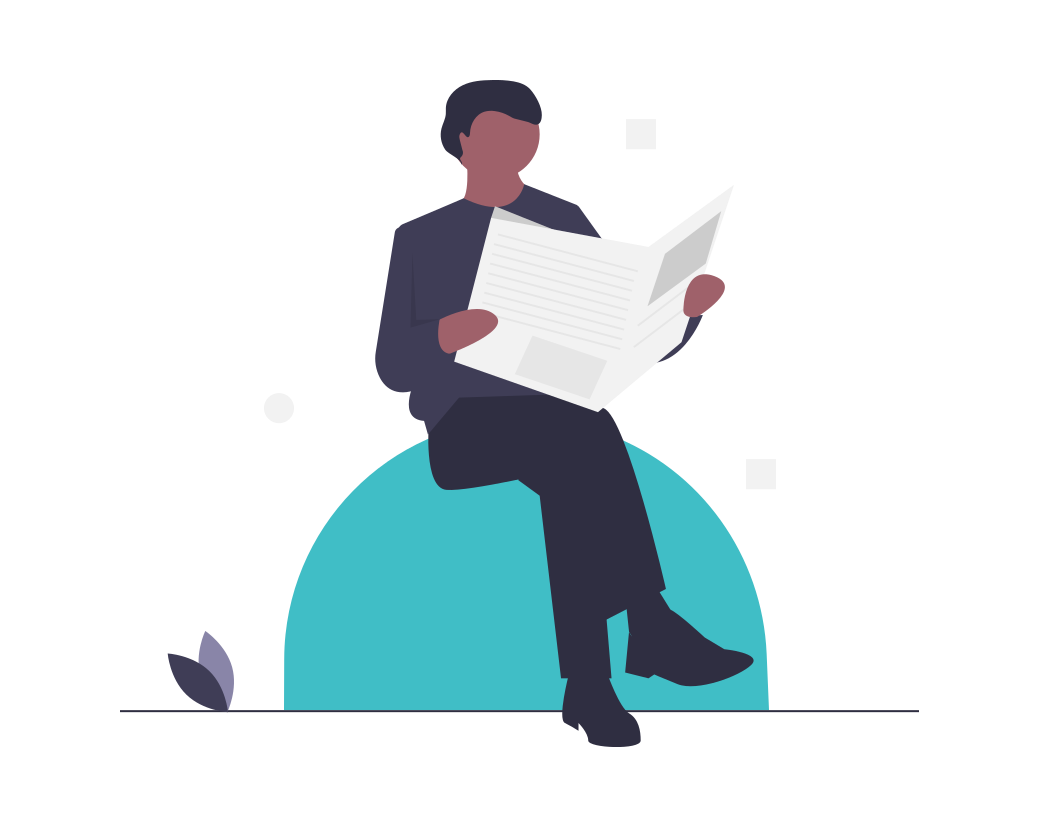
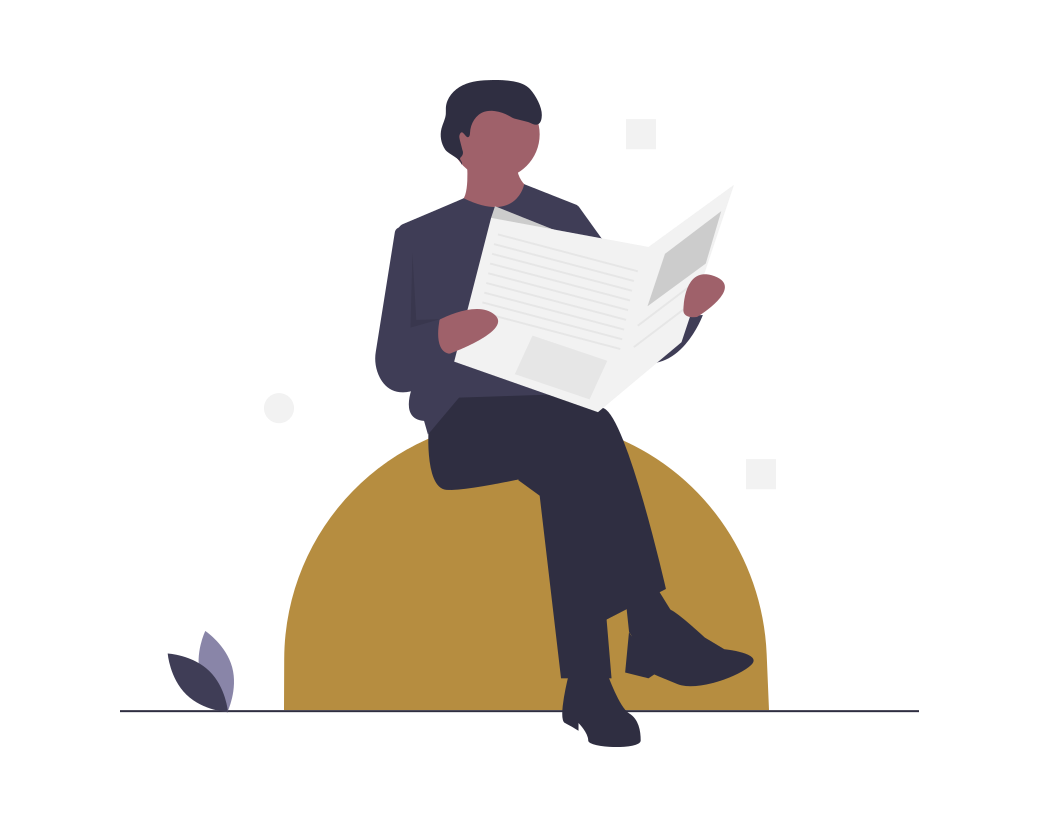
[CHANGE] Couleur et image mailing

Changed region(s): [[0.2464, 0.5139, 0.5544, 0.8767], [0.5852, 0.5139, 0.7392, 0.8767]]

diff --git a/frontend/src/components/Forms/EditReportForm.vue b/frontend/src/components/Forms/EditReportForm.vue
@@ -18,7 +18,7 @@
               v-model="responses[question.slug]"
               :show-rating="false"
               inactive-color="#e2e8f0"
-              active-color="#319795"
+              active-color="#c19034"
               :padding="10"
               :star-size="30">
           </star-rating>

diff --git a/resources/views/mails/report.blade.php b/resources/views/mails/report.blade.php
@@ -93,49 +93,55 @@
         <tr>
           <td style="line-height:0px;font-size:0px;mso-line-height-rule:exactly;">
       <![endif]-->
-    <div style="background:#319795;background-color:#319795;margin:0px auto;max-width:600px;">
-      <table align="center" border="0" cellpadding="0" cellspacing="0" role="presentation" style="background:#319795;background-color:#319795;width:100%;">
-        <tbody>
+      <div style="background:#ffffff;background-color:#ffffff;margin:0px auto;max-width:600px;">
+        <table align="center" border="0" cellpadding="0" cellspacing="0" role="presentation" style="background:#ffffff;background-color:#ffffff;width:100%;">
+          <tbody>
+            <tr>
+              <td style="direction:ltr;font-size:0px;padding:10px 0;text-align:center;">
+                <!--[if mso | IE]>
+                    <table role="presentation" border="0" cellpadding="0" cellspacing="0">
+
           <tr>
-            <td style="direction:ltr;font-size:0px;padding:10px 0;text-align:center;">
-              <!--[if mso | IE]>
-                  <table role="presentation" border="0" cellpadding="0" cellspacing="0">
 
-        <tr>
-
-            <td
-               class="" style="vertical-align:top;width:600px;"
-            >
-          <![endif]-->
-              <div class="mj-column-per-100 mj-outlook-group-fix" style="font-size:0px;text-align:left;direction:ltr;display:inline-block;vertical-align:top;width:100%;">
-                <table border="0" cellpadding="0" cellspacing="0" role="presentation" width="100%">
-                  <tbody>
-                    <tr>
-                      <td style="vertical-align:top;padding:0px;">
-                        <table border="0" cellpadding="0" cellspacing="0" role="presentation" style="" width="100%">
-                          <tr>
-                            <td align="center" style="font-size:0px;padding:18px 0px;word-break:break-word;">
-                              <div style="font-family:Raleway, Helvetica, Arial, sans-serif;font-size:25px;font-weight:bold;line-height:1;text-align:center;color:#ffffff;">APC Report</div>
-                            </td>
-                          </tr>
-                        </table>
-                      </td>
-                    </tr>
-                  </tbody>
-                </table>
-              </div>
-              <!--[if mso | IE]>
-            </td>
-
-        </tr>
-
+              <td
+                 class="" style="vertical-align:top;width:600px;"
+              >
+            <![endif]-->
+                <div class="mj-column-per-100 mj-outlook-group-fix" style="font-size:0px;text-align:left;direction:ltr;display:inline-block;vertical-align:top;width:100%;">
+                  <table border="0" cellpadding="0" cellspacing="0" role="presentation" width="100%">
+                    <tbody>
+                      <tr>
+                        <td style="vertical-align:top;padding:0px;">
+                          <table border="0" cellpadding="0" cellspacing="0" role="presentation" style="" width="100%">
+                            <tr>
+                              <td align="center" style="font-size:0px;padding:10px 25px;word-break:break-word;">
+                                <table border="0" cellpadding="0" cellspacing="0" role="presentation" style="border-collapse:collapse;border-spacing:0px;">
+                                  <tbody>
+                                    <tr>
+                                      <td style="width:200px;"> <img alt="tickets" height="auto" src="https://apc-report.lucasrobin.fr/img/logo/apcr-short.png" style="border:0;display:block;outline:none;text-decoration:none;height:auto;width:100%;font-size:13px;" width="200"> </td>
+                                    </tr>
+                                  </tbody>
+                                </table>
+                              </td>
+                            </tr>
+                          </table>
+                        </td>
+                      </tr>
+                    </tbody>
                   </table>
-                <![endif]-->
-            </td>
+                </div>
+                <!--[if mso | IE]>
+              </td>
+
           </tr>
-        </tbody>
-      </table>
-    </div>
+
+                    </table>
+                  <![endif]-->
+              </td>
+            </tr>
+          </tbody>
+        </table>
+      </div>
     <!--[if mso | IE]>
           </td>
         </tr>
@@ -161,39 +167,28 @@
                class="" style="vertical-align:top;width:600px;"
             >
           <![endif]-->
-              <div class="mj-column-per-100 mj-outlook-group-fix" style="font-size:0px;text-align:left;direction:ltr;display:inline-block;vertical-align:top;width:100%;">
-                <table border="0" cellpadding="0" cellspacing="0" role="presentation" width="100%">
-                  <tbody>
-                    <tr>
-                      <td style="vertical-align:top;padding:0px;">
-                        <table border="0" cellpadding="0" cellspacing="0" role="presentation" style="" width="100%">
-                          <tr>
-                            <td align="center" style="font-size:0px;padding:10px 25px;word-break:break-word;">
-                              <table border="0" cellpadding="0" cellspacing="0" role="presentation" style="border-collapse:collapse;border-spacing:0px;">
-                                <tbody>
-                                  <tr>
-                                    <td style="width:400px;"> <img alt="tickets" height="auto" src="https://apc-report.lucasrobin.fr/img/mails/header.png" style="border:0;display:block;outline:none;text-decoration:none;height:auto;width:100%;font-size:13px;" width="400"> </td>
-                                  </tr>
-                                </tbody>
-                              </table>
-                            </td>
-                          </tr>
-                          <tr>
-                            <td align="center" style="font-size:0px;padding:15px 25px 25px 25px;word-break:break-word;">
-                              <div style="font-family:Raleway, Lato, Helvetica, Arial, sans-serif;font-size:20px;line-height:1;text-align:center;color:#2d3748;">Nouveau rapport de <strong> {{ $user }}</strong></div>
-                            </td>
-                          </tr>
-                          <tr>
-                            <td align="center" style="font-size:0px;padding:10px 10px;word-break:break-word;">
-                              <div style="font-family:Raleway, Lato, Helvetica, Arial, sans-serif;font-size:16px;line-height:1;text-align:center;color:#2d3748;"><strong>Détail du rendez-vous</strong></div>
-                            </td>
-                          </tr>
-                        </table>
-                      </td>
-                    </tr>
-                  </tbody>
-                </table>
-              </div>
+          <div class="mj-column-per-100 mj-outlook-group-fix" style="font-size:0px;text-align:left;direction:ltr;display:inline-block;vertical-align:top;width:100%;">
+            <table border="0" cellpadding="0" cellspacing="0" role="presentation" width="100%">
+              <tbody>
+                <tr>
+                  <td style="vertical-align:top;padding:0px;">
+                    <table border="0" cellpadding="0" cellspacing="0" role="presentation" style="" width="100%">
+                      <tr>
+                        <td align="center" style="font-size:0px;padding:15px 25px 25px 25px;word-break:break-word;">
+                          <div style="font-family:Raleway, Lato, Helvetica, Arial, sans-serif;font-size:20px;line-height:1;text-align:center;color:#2d3748;">Nouveau rapport de <strong> {{ $user }}</strong></div>
+                        </td>
+                      </tr>
+                      <tr>
+                        <td align="center" style="font-size:0px;padding:10px 10px;word-break:break-word;">
+                          <div style="font-family:Raleway, Lato, Helvetica, Arial, sans-serif;font-size:16px;line-height:1;text-align:center;color:#2d3748;"><strong>Détail du rendez-vous</strong></div>
+                        </td>
+                      </tr>
+                    </table>
+                  </td>
+                </tr>
+              </tbody>
+            </table>
+          </div>
               <!--[if mso | IE]>
             </td>
 

diff --git a/resources/views/mails/customer.blade.php b/resources/views/mails/customer.blade.php
@@ -93,8 +93,8 @@
         <tr>
           <td style="line-height:0px;font-size:0px;mso-line-height-rule:exactly;">
       <![endif]-->
-    <div style="background:#319795;background-color:#319795;margin:0px auto;max-width:600px;">
-      <table align="center" border="0" cellpadding="0" cellspacing="0" role="presentation" style="background:#319795;background-color:#319795;width:100%;">
+    <div style="background:#ffffff;background-color:#ffffff;margin:0px auto;max-width:600px;">
+      <table align="center" border="0" cellpadding="0" cellspacing="0" role="presentation" style="background:#ffffff;background-color:#ffffff;width:100%;">
         <tbody>
           <tr>
             <td style="direction:ltr;font-size:0px;padding:10px 0;text-align:center;">
@@ -107,23 +107,29 @@
                class="" style="vertical-align:top;width:600px;"
             >
           <![endif]-->
-              <div class="mj-column-per-100 mj-outlook-group-fix" style="font-size:0px;text-align:left;direction:ltr;display:inline-block;vertical-align:top;width:100%;">
-                <table border="0" cellpadding="0" cellspacing="0" role="presentation" width="100%">
-                  <tbody>
-                    <tr>
-                      <td style="vertical-align:top;padding:0px;">
-                        <table border="0" cellpadding="0" cellspacing="0" role="presentation" style="" width="100%">
-                          <tr>
-                            <td align="center" style="font-size:0px;padding:18px 0px;word-break:break-word;">
-                              <div style="font-family:Raleway, Helvetica, Arial, sans-serif;font-size:25px;font-weight:bold;line-height:1;text-align:center;color:#ffffff;">Alpha Plus Courtage</div>
-                            </td>
-                          </tr>
-                        </table>
-                      </td>
-                    </tr>
-                  </tbody>
-                </table>
-              </div>
+          <div class="mj-column-per-100 mj-outlook-group-fix" style="font-size:0px;text-align:left;direction:ltr;display:inline-block;vertical-align:top;width:100%;">
+            <table border="0" cellpadding="0" cellspacing="0" role="presentation" width="100%">
+              <tbody>
+                <tr>
+                  <td style="vertical-align:top;padding:0px;">
+                    <table border="0" cellpadding="0" cellspacing="0" role="presentation" style="" width="100%">
+                      <tr>
+                        <td align="center" style="font-size:0px;padding:10px 25px;word-break:break-word;">
+                          <table border="0" cellpadding="0" cellspacing="0" role="presentation" style="border-collapse:collapse;border-spacing:0px;">
+                            <tbody>
+                              <tr>
+                                <td style="width:300px;"> <img alt="tickets" height="auto" src="https://apc-report.lucasrobin.fr/img/logo/apc-full.png" style="border:0;display:block;outline:none;text-decoration:none;height:auto;width:100%;font-size:13px;" width="300"> </td>
+                              </tr>
+                            </tbody>
+                          </table>
+                        </td>
+                      </tr>
+                    </table>
+                  </td>
+                </tr>
+              </tbody>
+            </table>
+          </div>
               <!--[if mso | IE]>
             </td>
 
@@ -246,7 +252,7 @@
                             <td align="center" vertical-align="middle" style="font-size:0px;padding:0px;padding-top:10px;padding-bottom:45px;word-break:break-word;">
                               <table border="0" cellpadding="0" cellspacing="0" role="presentation" style="border-collapse:separate;line-height:100%;">
                                 <tr>
-                                  <td align="center" bgcolor="#319795" role="presentation" style="border:none;border-radius:24px;cursor:auto;mso-padding-alt:10px 25px;background:#319795;" valign="middle"> <a href="{{ url('uploads/' . $pdf) }}" style="display: inline-block; background: #319795; color: #ffffff; font-family: Raleway, Ubuntu, Helvetica, Arial, sans-serif, Helvetica, Arial, sans-serif; font-size: 20px; font-weight: normal; line-height: 120%; margin: 0; text-decoration: none; text-transform: none; padding: 10px 25px; mso-padding-alt: 0px; border-radius: 24px;"
+                                  <td align="center" bgcolor="#c19034" role="presentation" style="border:none;border-radius:24px;cursor:auto;mso-padding-alt:10px 25px;background:#c19034;" valign="middle"> <a href="{{ url('uploads/' . $pdf) }}" style="display: inline-block; background: #c19034; color: #ffffff; font-family: Raleway, Ubuntu, Helvetica, Arial, sans-serif, Helvetica, Arial, sans-serif; font-size: 20px; font-weight: normal; line-height: 120%; margin: 0; text-decoration: none; text-transform: none; padding: 10px 25px; mso-padding-alt: 0px; border-radius: 24px;"
                                       target="_blank">
               Consulter en ligne
             </a> </td>
